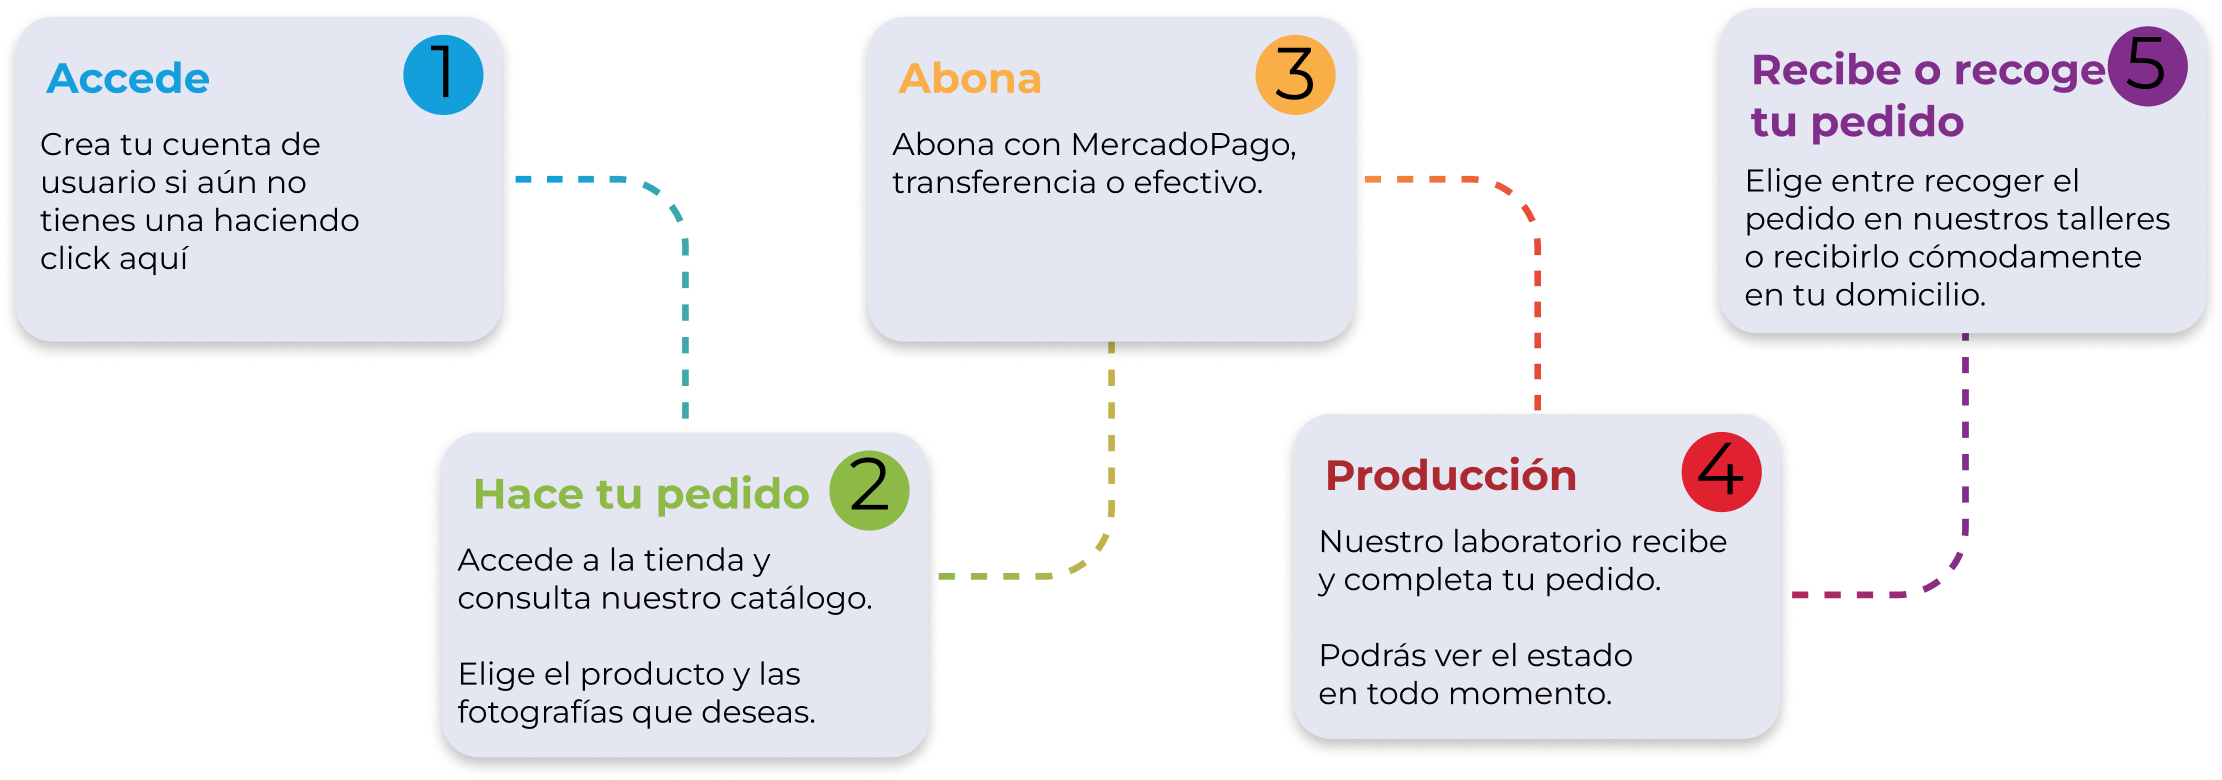
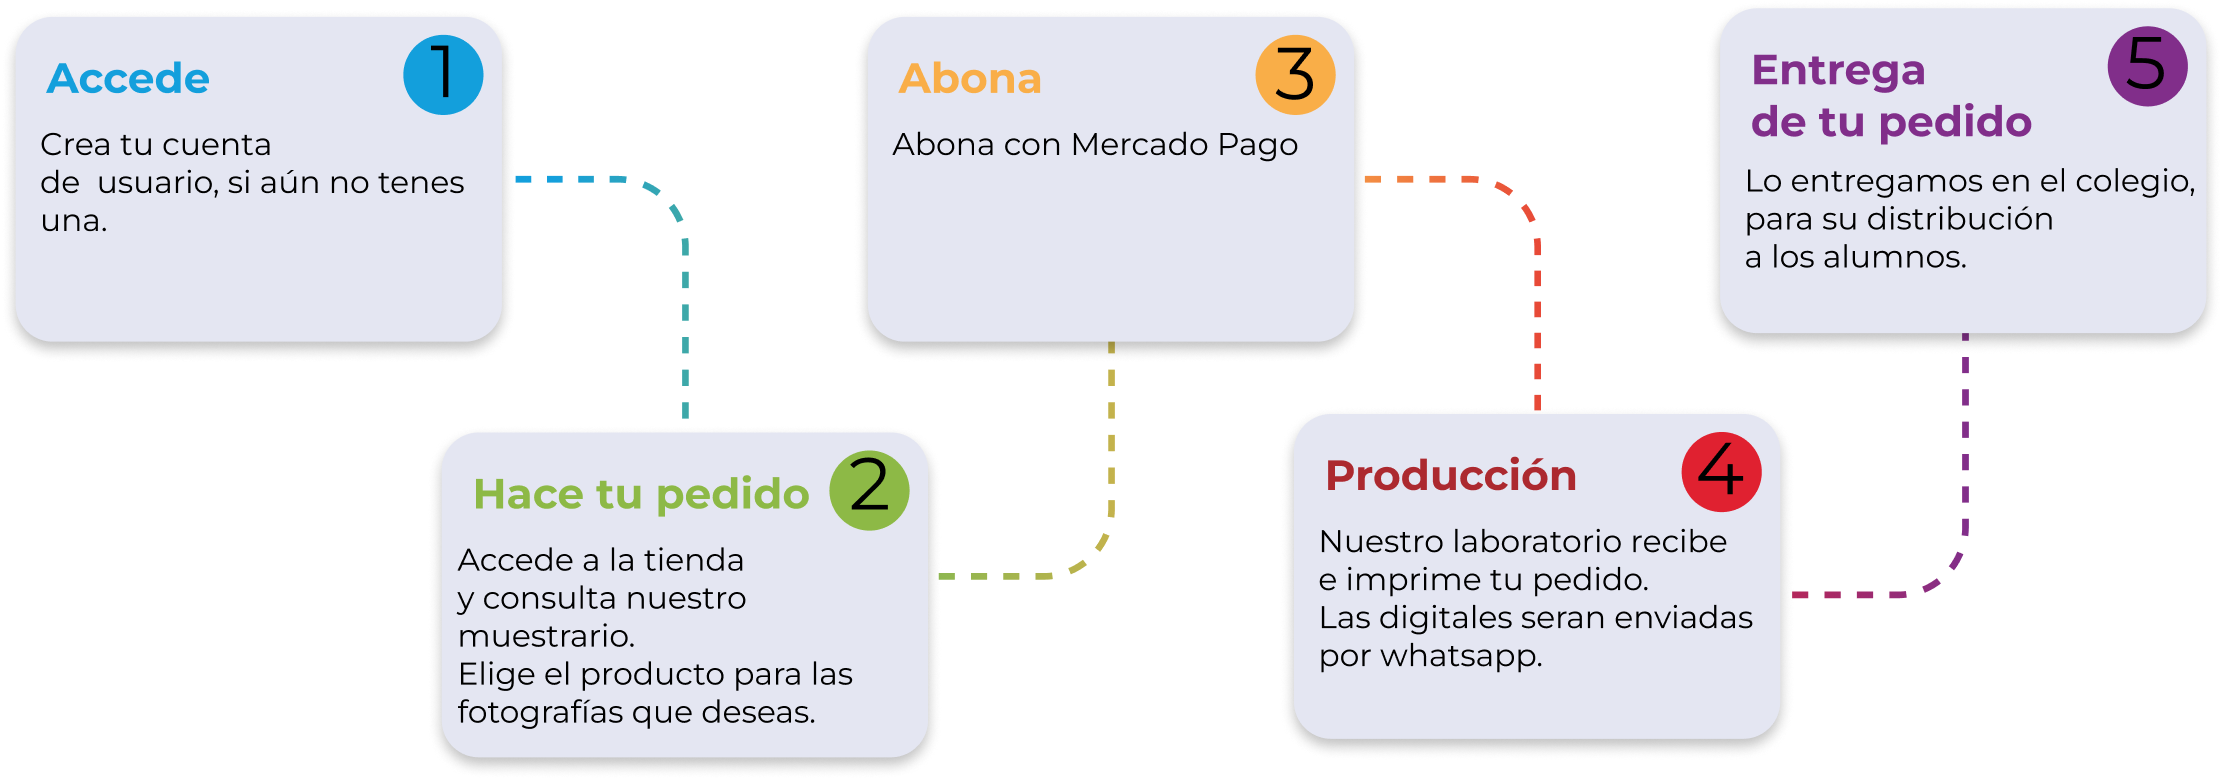
new info changes in landing page

diff --git a/src/components/rootsComponents/section3/Section3.tsx b/src/components/rootsComponents/section3/Section3.tsx
@@ -7,39 +7,39 @@ const data = [
   {
     id: 1,
     title: "Archivos digitales",
-    text: "Al confirmar el pago le enviaremos el/los archivo elegidos.",
+    text: "Al confirmar el pago le enviaremos el/los archivo elegidos a su whatsapp.",
     img: "/ui/products/13x18.jpeg",
   },
   {
     id: 2,
     title: "Carpeta",
-    text: "Retrato y grupo en 20x25 cm + Multiple ( 2  billerera y 4 carnet de la misma foto de la carpeta).",
-    img: "/ui/products/13x18.jpeg",
+    text: "Retrato y grupo en 20 x 25 cm + Multiple ( 2  billerera y 4 carnet de la misma foto de la carpeta).",
+    img: "/ui/products/carpetaweb.png",
   },
   {
     id: 3,
-    title: "Foto libro",
-    text: "En tapa dura con escudo del colegio, con retrato y grupo en 15x21 cm + Multiple ( 2  billerera y 4 carnet de la misma foto del foto-book) Todo en papel fotográfico.",
-    img: "/ui/products/books.jpeg",
+    title: "Foto Book",
+    text: "En tapa dura con escudo del colegio, con retrato y grupo en 15 x 21 cm + Multiple ( 2  billerera y 4 carnet de la misma foto del foto-book) Todo en papel fotográfico.",
+    img: "/ui/products/bookweb.png",
   },
   {
     id: 4,
     title: "Foto grupales",
-    text: "Formato tradicional, divertida u orla Archivo digital para compartir.",
+    text: "Formato tradicional, divertida u Orla, Archivo digital para compartir.",
     img: "/ui/products/grupo.jpeg",
   },
   {
     id: 5,
     title: "Orlas",
-    text: "Formato tradicional, divertida u orla Archivo digital para compartir.",
+    text: "Formato tradicional, divertida u Orla, Archivo digital para compartir.",
     img: "/ui/products/orla.jpeg",
   },
 
   {
     id: 6,
-    title: "Copias papel",
-    text: "",
-    img: "/ui/products/13x18.jpeg",
+    title: "Copias Impresas",
+    text: "Tamaño de impresión 13 x 18 cm, 15 x 21 cm, 20 x 25 cm y multiple (2 billetera + 4 carnet) del retrato elegido.",
+    img: "/ui/products/copiaspapelweb.png",
   },
 ];
 

diff --git a/src/components/rootsComponents/section3/Section3Mini.tsx b/src/components/rootsComponents/section3/Section3Mini.tsx
@@ -10,39 +10,39 @@ const data = [
   {
     id: 1,
     title: "Archivos digitales",
-    text: "Al confirmar el pago le enviaremos el/los archivo elegidos.",
+    text: "Al confirmar el pago le enviaremos el/los archivo elegidos whatsapp.",
     img: "/ui/products/13x18.jpeg",
   },
   {
     id: 2,
     title: "Carpeta",
-    text: "Retrato y grupo en 20x25 cm + Multiple ( 2  billerera y 4 carnet de la misma foto de la carpeta).",
-    img: "/ui/products/13x18.jpeg",
+    text: "Retrato y grupo en 20 x 25 cm + Multiple ( 2  billerera y 4 carnet de la misma foto de la carpeta).",
+    img: "/ui/products/carpetaweb.png",
   },
   {
     id: 3,
-    title: "Foto libro",
-    text: "En tapa dura con escudo del colegio, con retrato y grupo en 15x21 cm + Multiple ( 2  billerera y 4 carnet de la misma foto del foto-book) Todo en papel fotográfico.",
-    img: "/ui/products/books.jpeg",
+    title: "Foto Book",
+    text: "En tapa dura con escudo del colegio, con retrato y grupo en 15 x 21 cm + Multiple ( 2  billerera y 4 carnet de la misma foto del foto-book) Todo en papel fotográfico.",
+    img: "/ui/products/bookweb.png",
   },
   {
     id: 4,
     title: "Foto grupales",
-    text: "Formato tradicional, divertida u orla Archivo digital para compartir.",
+    text: "Formato tradicional, divertida u Orla, Archivo digital para compartir.",
     img: "/ui/products/grupo.jpeg",
   },
   {
     id: 5,
     title: "Orlas",
-    text: "Formato tradicional, divertida u orla Archivo digital para compartir.",
+    text: "Formato tradicional, divertida u Orla, Archivo digital para compartir.",
     img: "/ui/products/orla.jpeg",
   },
 
   {
     id: 6,
-    title: "Copias papel",
-    text: "",
-    img: "/ui/products/13x18.jpeg",
+    title: "Copias Impresas",
+    text: "Tamaño de impresión 13 x 18 cm, 15 x 21 cm, 20 x 25 cm y multiple (2 billetera + 4 carnet) del retrato elegido.",
+    img: "/ui/products/copiaspapelweb.png",
   },
 ];
 

diff --git a/src/components/rootsComponents/section1/Section1Mini.tsx b/src/components/rootsComponents/section1/Section1Mini.tsx
@@ -15,8 +15,8 @@ function Section1Mini() {
             etapa irrepetible como es la escolar.
           </p>
           <p className="mt-5 text-xs">
-            Si usted no posee la contraseña para ingresar a su institución, por
-            favor envíenos un mail a contacto@fotosposada.com.ar indicándonos
+            Si no tenes la contraseña para ingresar a tu institución, por favor
+            solicitela a nuestro whatsapp +54 911 5403-2747 indicándonos
             colegio, nombre y curso del alumno.
           </p>
         </div>

diff --git a/src/components/rootsComponents/section1/Section1.tsx b/src/components/rootsComponents/section1/Section1.tsx
@@ -15,8 +15,8 @@ function Section1() {
             etapa irrepetible como es la escolar.
           </p>
           <p className="mt-10">
-            Si usted no posee la contraseña para ingresar a su institución, por
-            favor envíenos un mail a contacto@fotosposada.com.ar indicándonos
+            Si no tenes la contraseña para ingresar a tu institución, por favor
+            solicitela a nuestro whatsapp +54 911 5403-2747 indicándonos
             colegio, nombre y curso del alumno.
           </p>
         </div>

diff --git a/src/app/(auth)/signup/extradata/page.tsx b/src/app/(auth)/signup/extradata/page.tsx
@@ -30,7 +30,7 @@ export default async function page({
         <div className="w-60">
           <AspectRatio ratio={1 / 1}>
             <Image
-              src={"/posadalogowhite.png"}
+              src={"/logoposada.png"}
               alt="Logo Posada"
               layout="fill"
               style={{ objectFit: "contain" }}
